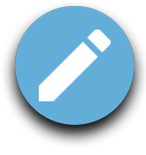
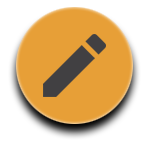
Add Mobile UI design

diff --git a/test.html b/test.html
@@ -14,21 +14,21 @@
     <body onload="LoadDivs()">
         <div class="header">
             <header>
-              <img class="arrow" src="../images/Arrow-left.png"> 
+              <img class="arrow" src="Icons/Arrow-left.png"> 
               <div class="line"></div>
             </header>
         </div>
         <canvas id="canvas" class="canvas"></canvas>
         <div class="overlay" id="overlay">
-            <div class="overlayHeader"><h2>Folder 1:</h2></div>
+            <div class="overlayHeader"><h2 align="center">Folder 1:</h2></div>
             <div class="folderContent">
-                <h4>Note 1:</h4>
+                <h4 class="folderContentHeader">Note 1:</h4>
                 <p class="folderContentNote">Epic veel tekst waar veel in gaat staan uiteindelijk omdat ik zenuwachtig ben en niet weet wat ik hier moet gaan zetten.</p>
-                <h4>Note 2:</h4>
+                <h4 class="folderContentHeader">Note 2:</h4>
                 <p class="folderContentNote">Epic veel tekst waar veel in gaat staan uiteindelijk omdat ik zenuwachtig ben en niet weet wat ik hier moet gaan zetten.</p>
-                <h4>Picture 1:</h4>
+                <h4 class="folderContentHeader">Picture 1:</h4>
                 <img src="Icons/FeatureMatrix.png" style="width: 100%;">
-                <h4>Note 3:</h4>
+                <h4 class="folderContentHeader">Note 3:</h4>
                 <p class="folderContentNote">Epic veel tekst waar veel in gaat staan uiteindelijk omdat ik zenuwachtig ben en niet weet wat ik hier moet gaan zetten.</p>
             </div>
         </div>
@@ -50,7 +50,7 @@
         <img src="Icons/NoteIcon.png" class="Icon" onclick="LoadDivs(), setup()">
         <img src="Icons/DrawIcon.png" class="Icon" onclick="activateDraw()">
         <label for="file" style="cursor: pointer;"><img src="Icons/ImageIcon.png" class="Icon"></label>
-        <img src="Icons/DrawIcon.png" class="Icon" onclick="getSelectionText()">
+        <img src="Icons/markerIcon.png" class="Icon" onclick="getSelectionText()">
 
         <script type="text/javascript" src="js/moveDiv.js"></script>
         <script type="text/javascript" src="js/loadImage.js"></script>

diff --git a/test.css b/test.css
@@ -3,6 +3,10 @@
     src: url(Icons/Montserrat-SemiBold.otf);
 }
 
+p {
+    font-family: "Montserrat";
+}
+
 h2 {
     font-family: "Montserrat";
 }
@@ -17,17 +21,9 @@ h4 {
     font-size: 100%;
 }
 
-div {
-    position: absolute;
-    top: 0;
-    text-align: center;
-    line-height: 20px;
-    border-radius: 15px 15px 15px 15px;
-    }
-
 header {
-  width: 100%;
-  height: 100vh;
+
+  height: 50vh;
   text-align: center;
 
   display: contents;
@@ -35,7 +31,8 @@ header {
 }
 
 .header{
-	background-color: #6e9fbc;
+    width: 1920;
+	background-color: #63aed9;
 }
 
 .arrow{
@@ -51,7 +48,18 @@ header {
  
 }
 
+canvas {
+    width: 1920px;
+    height: 780px;
+}
+
 .note {
+    top: 100px;
+    left: 20px;
+    line-height: 20px;
+    border-radius: 15px 15px 15px 15px;
+    text-align: center;
+    position: absolute;
     width: fit-content;
     height: fit-content;
     background-color:  #fffeba;
@@ -76,9 +84,16 @@ textarea {
 }
 
 .Icon:hover {
-    height: 3.2%;
-    width: 3.2%;
-    filter: contrast(170%);
+    filter: brightness(80%);
+}
+
+.folder {
+    top: 100px;
+    left: 20px;
+    line-height: 20px;
+    border-radius: 15px 15px 15px 15px;
+    text-align: center;
+    position: absolute;
 }
 
 .folder:hover {
@@ -100,7 +115,6 @@ textarea {
     top:20%;
     left: 45%;
     width: 400px;
-    line-height: 200px;
     height: 75%;
     margin-left: -150px;
     margin-top: -100px;
@@ -109,10 +123,7 @@ textarea {
 
 .overlayHeader {
     border: 2px solid black;
-    position: relative;
-    margin-top: 0px;
-    padding-bottom: 20px;
-    height: 40px;
+    height: 70px;
     background-color: #63aed9;
     color: white;
 }
@@ -123,13 +134,7 @@ textarea {
     position: relative;
     overflow: auto;
     height: 78%;
-}
-
-.folderContentHeader {
-    border: 10px solid #e7a037;
-    position: relative;
-    float: left;
-    margin-left: 10%;
+    line-height: 40px;
 }
 
 .folderContentNote {
@@ -137,6 +142,7 @@ textarea {
     padding: 20px;
     position: relative;
     height: fit-content;
+    line-height: 30px;
     background-color:  #fffeba;
 }
 

diff --git a/mediastyle.css b/mediastyle.css
@@ -26,16 +26,37 @@
         font-size: 100%;
     }
 
-    div {
-        position: absolute;
-        top: 0;
+    header {
+        width: 100%;
+        height: 100vh;
         text-align: center;
-        line-height: 40px;
-        border-radius: 15px 15px 15px 15px;
-        }
+      
+        display: contents;
+        overflow: hidden;
+    }
+      
+    .header{
+        background-color: #63aed9;    
+    }
+      
+    .arrow{
+        margin: 15px;
+        width: 30px;
+        height: 30px;
+    }
+      
+    .line{
+        width:100%;
+        border-bottom: 1px solid gray;
+       
+    }
 
     .note {
+        border-radius: 15px;
         width: 150px;
+        line-height: 40px;
+        position: absolute;
+        text-align: center;
         height: fit-content;
         background-color:  #fffeba;
         padding: 10px;
@@ -67,6 +88,7 @@
         margin-top: 0px;
         padding-bottom: 20px;
         height: 50px;
+        line-height: 25px;
         background-color: #63aed9;
         color: white;
     }
@@ -77,13 +99,7 @@
         position: relative;
         overflow: auto;
         height: 70%;
-    }
-    
-    .folderContentHeader {
-        border: 10px solid #e7a037;
-        position: relative;
-        float: left;
-        margin-left: 10%;
+        line-height: 20px;
     }
     
     .folderContentNote {

diff --git a/js/moveDiv.js b/js/moveDiv.js
@@ -5,8 +5,8 @@ function LoadDivs() {
     document.onpointermove = onpointermove;
     document.onpointerup = onpointerup;
                 
-        canvas.width = screen.width - 20;
-        canvas.height = screen.height - 220;
+        canvas.width = screen.width;
+        canvas.height = screen.height;
                 
         var the_moving_div = ''; 
         var the_last_mouse_position = { x:0, y:0 };
